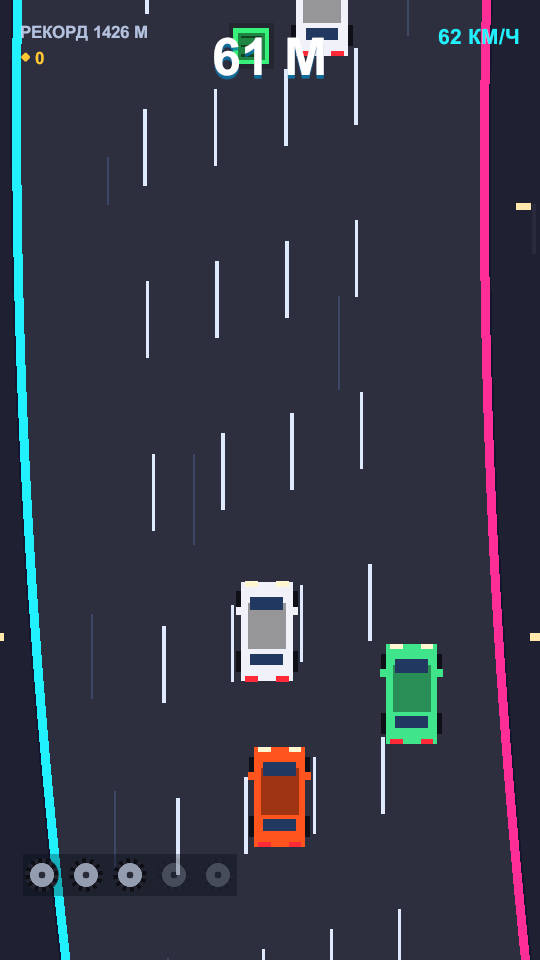
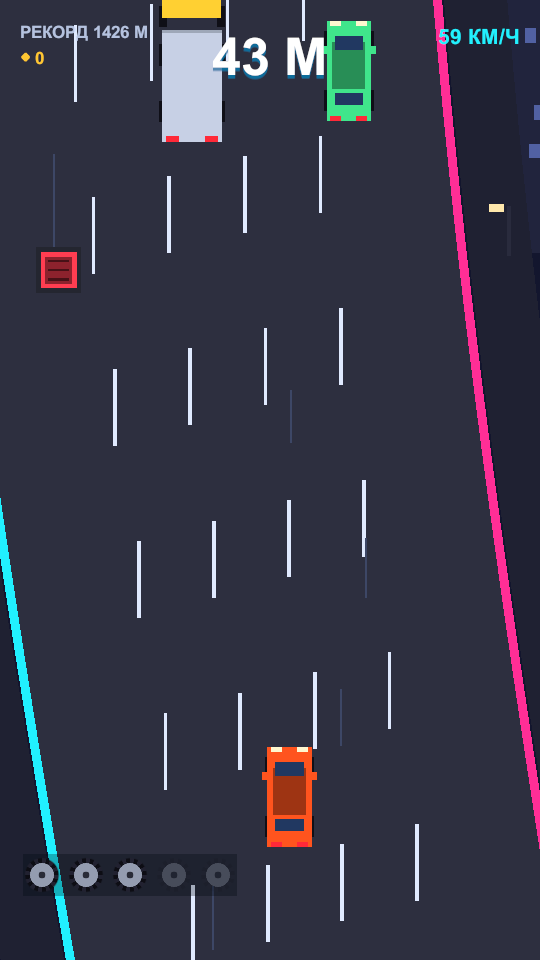
Widen lanes and fix collisions on turns (v0.6.1)
- Lane width 1.55 -> 1.72, road half width 4.40 -> 4.85, so cars have room inside their lane.
- Traffic cars, trucks and barriers are slimmer.
- Collisions now compare positions in lane space (world X minus the road offset at that height) instead of plain world X. On sharp turns the offset shifted neighbouring lanes closer together in world coordinates, which caused hits from cars in the next lane.
- Manholes and coins use the same lane-space check.
- Player hitbox slightly narrower (0.46 x 1.02).
- Lampposts and city buildings moved outward to keep clear of the wider road.
- Version 0.6.1 (code 7); README and screenshots refreshed.

diff --git a/Assets/FiveLineRace/Scripts/G2Visuals.cs b/Assets/FiveLineRace/Scripts/G2Visuals.cs
@@ -34,25 +34,25 @@ namespace FiveLineRace
             {
                 for (int sy = -1; sy <= 1; sy += 2)
                 {
-                    G2Quad.Create(root.transform, "Wheel", sx * 0.58f, sy * 0.66f, 0.2f, 0.46f, G2.Tire, 0.02f);
+                    G2Quad.Create(root.transform, "Wheel", sx * 0.47f, sy * 0.66f, 0.16f, 0.46f, G2.Tire, 0.02f);
                 }
             }
 
             // Корпус и капот.
-            G2Quad.Create(root.transform, "Body", 0f, 0f, 1.14f, 2.2f, body, 0f);
-            G2Quad.Create(root.transform, "Roof", 0f, 0.12f, 0.84f, 1.02f, G2.Darken(body, 0.62f), -0.02f);
-            G2Quad.Create(root.transform, "Windshield", 0f, 0.62f, 0.72f, 0.3f, G2.Glass, -0.03f);
-            G2Quad.Create(root.transform, "RearWindow", 0f, -0.62f, 0.72f, 0.26f, G2.Glass, -0.03f);
+            G2Quad.Create(root.transform, "Body", 0f, 0f, 0.98f, 2.2f, body, 0f);
+            G2Quad.Create(root.transform, "Roof", 0f, 0.12f, 0.72f, 1.02f, G2.Darken(body, 0.62f), -0.02f);
+            G2Quad.Create(root.transform, "Windshield", 0f, 0.62f, 0.62f, 0.3f, G2.Glass, -0.03f);
+            G2Quad.Create(root.transform, "RearWindow", 0f, -0.62f, 0.62f, 0.26f, G2.Glass, -0.03f);
 
             // Зеркала.
-            G2Quad.Create(root.transform, "MirrorL", -0.62f, 0.46f, 0.14f, 0.18f, body, -0.02f);
-            G2Quad.Create(root.transform, "MirrorR", 0.62f, 0.46f, 0.14f, 0.18f, body, -0.02f);
+            G2Quad.Create(root.transform, "MirrorL", -0.54f, 0.46f, 0.12f, 0.18f, body, -0.02f);
+            G2Quad.Create(root.transform, "MirrorR", 0.54f, 0.46f, 0.12f, 0.18f, body, -0.02f);
 
             // Фары и стопы.
-            G2Quad.Create(root.transform, "HeadL", -0.34f, 1.05f, 0.28f, 0.12f, new Color(1f, 0.97f, 0.82f), -0.03f);
-            G2Quad.Create(root.transform, "HeadR", 0.34f, 1.05f, 0.28f, 0.12f, new Color(1f, 0.97f, 0.82f), -0.03f);
-            G2Quad.Create(root.transform, "TailL", -0.34f, -1.05f, 0.28f, 0.12f, G2.Tail, -0.03f);
-            G2Quad.Create(root.transform, "TailR", 0.34f, -1.05f, 0.28f, 0.12f, G2.Tail, -0.03f);
+            G2Quad.Create(root.transform, "HeadL", -0.29f, 1.05f, 0.24f, 0.12f, new Color(1f, 0.97f, 0.82f), -0.03f);
+            G2Quad.Create(root.transform, "HeadR", 0.29f, 1.05f, 0.24f, 0.12f, new Color(1f, 0.97f, 0.82f), -0.03f);
+            G2Quad.Create(root.transform, "TailL", -0.29f, -1.05f, 0.24f, 0.12f, G2.Tail, -0.03f);
+            G2Quad.Create(root.transform, "TailR", 0.29f, -1.05f, 0.24f, 0.12f, G2.Tail, -0.03f);
         }
 
         public static GameObject CreateTruck(Transform parent, Color cabColor)
@@ -63,20 +63,20 @@ namespace FiveLineRace
             // Колёса.
             for (int sx = -1; sx <= 1; sx += 2)
             {
-                G2Quad.Create(root.transform, "Wheel", sx * 0.7f, 0.95f, 0.2f, 0.48f, G2.Tire, 0.02f);
-                G2Quad.Create(root.transform, "Wheel", sx * 0.7f, 0.1f, 0.2f, 0.48f, G2.Tire, 0.02f);
-                G2Quad.Create(root.transform, "Wheel", sx * 0.7f, -1.15f, 0.2f, 0.48f, G2.Tire, 0.02f);
+                G2Quad.Create(root.transform, "Wheel", sx * 0.64f, 0.95f, 0.18f, 0.48f, G2.Tire, 0.02f);
+                G2Quad.Create(root.transform, "Wheel", sx * 0.64f, 0.1f, 0.18f, 0.48f, G2.Tire, 0.02f);
+                G2Quad.Create(root.transform, "Wheel", sx * 0.64f, -1.15f, 0.18f, 0.48f, G2.Tire, 0.02f);
             }
 
             // Кузов-фургон и кабина.
-            G2Quad.Create(root.transform, "Cargo", 0f, -0.6f, 1.48f, 2.45f, G2.Cargo, 0f);
-            G2Quad.Create(root.transform, "CargoLine", 0f, 0.62f, 1.48f, 0.06f, G2.Darken(G2.Cargo, 0.8f), -0.01f);
-            G2Quad.Create(root.transform, "Cab", 0f, 1.5f, 1.42f, 1.15f, cabColor, -0.02f);
-            G2Quad.Create(root.transform, "Windshield", 0f, 1.95f, 1.16f, 0.24f, G2.Glass, -0.03f);
+            G2Quad.Create(root.transform, "Cargo", 0f, -0.6f, 1.34f, 2.45f, G2.Cargo, 0f);
+            G2Quad.Create(root.transform, "CargoLine", 0f, 0.62f, 1.34f, 0.06f, G2.Darken(G2.Cargo, 0.8f), -0.01f);
+            G2Quad.Create(root.transform, "Cab", 0f, 1.5f, 1.3f, 1.15f, cabColor, -0.02f);
+            G2Quad.Create(root.transform, "Windshield", 0f, 1.95f, 1.06f, 0.24f, G2.Glass, -0.03f);
 
             // Стопы.
-            G2Quad.Create(root.transform, "TailL", -0.48f, -1.76f, 0.3f, 0.14f, G2.Tail, -0.03f);
-            G2Quad.Create(root.transform, "TailR", 0.48f, -1.76f, 0.3f, 0.14f, G2.Tail, -0.03f);
+            G2Quad.Create(root.transform, "TailL", -0.43f, -1.76f, 0.28f, 0.14f, G2.Tail, -0.03f);
+            G2Quad.Create(root.transform, "TailR", 0.43f, -1.76f, 0.28f, 0.14f, G2.Tail, -0.03f);
 
             return root;
         }
@@ -86,17 +86,17 @@ namespace FiveLineRace
             var root = new GameObject("BarrierVisual");
             root.transform.SetParent(parent, false);
 
-            G2Quad.Create(root.transform, "Base", 0f, -0.34f, 1.9f, 0.16f, new Color(0.3f, 0.32f, 0.38f), 0.01f);
-            G2Quad.Create(root.transform, "Board", 0f, 0f, 1.78f, 0.54f, new Color(1f, 0.45f, 0.08f), 0f);
+            G2Quad.Create(root.transform, "Base", 0f, -0.32f, 1.6f, 0.14f, new Color(0.3f, 0.32f, 0.38f), 0.01f);
+            G2Quad.Create(root.transform, "Board", 0f, 0f, 1.46f, 0.5f, new Color(1f, 0.45f, 0.08f), 0f);
 
             for (int i = 0; i < 4; i++)
             {
-                G2Quad.Create(root.transform, "Stripe", -0.66f + i * 0.44f, 0f, 0.24f, 0.46f,
+                G2Quad.Create(root.transform, "Stripe", -0.54f + i * 0.36f, 0f, 0.2f, 0.42f,
                     new Color(1f, 0.85f, 0.2f), -0.01f);
             }
 
-            G2Quad.Create(root.transform, "LampL", -0.8f, 0.44f, 0.16f, 0.16f, new Color(1f, 0.7f, 0.15f), -0.01f);
-            G2Quad.Create(root.transform, "LampR", 0.8f, 0.44f, 0.16f, 0.16f, new Color(1f, 0.7f, 0.15f), -0.01f);
+            G2Quad.Create(root.transform, "LampL", -0.66f, 0.38f, 0.14f, 0.14f, new Color(1f, 0.7f, 0.15f), -0.01f);
+            G2Quad.Create(root.transform, "LampR", 0.66f, 0.38f, 0.14f, 0.14f, new Color(1f, 0.7f, 0.15f), -0.01f);
 
             return root;
         }

diff --git a/Assets/FiveLineRace/Scripts/G2Game.cs b/Assets/FiveLineRace/Scripts/G2Game.cs
@@ -379,15 +379,15 @@ namespace FiveLineRace
             {
                 G2Visuals.CreateBarrier(go.transform);
                 mover.relativeSpeed = 1f;
-                mover.halfX = 0.88f;
-                mover.halfY = 0.4f;
+                mover.halfX = 0.74f;
+                mover.halfY = 0.36f;
             }
             else if (roll < 0.4f)
             {
                 Color color = G2.TrafficColors[Random.Range(0, G2.TrafficColors.Length)];
                 G2Visuals.CreateTruck(go.transform, color);
                 mover.relativeSpeed = 0.55f;
-                mover.halfX = 0.74f;
+                mover.halfX = 0.68f;
                 mover.halfY = 1.95f;
             }
             else
@@ -395,7 +395,7 @@ namespace FiveLineRace
                 Color color = G2.TrafficColors[Random.Range(0, G2.TrafficColors.Length)];
                 G2Visuals.CreateTrafficCar(go.transform, color);
                 mover.relativeSpeed = 0.75f;
-                mover.halfX = 0.6f;
+                mover.halfX = 0.5f;
                 mover.halfY = 1.15f;
             }
 
@@ -452,6 +452,11 @@ namespace FiveLineRace
         void CheckHits()
         {
             Vector3 p = car.transform.position;
+            float travelled = Distance;
+
+            // X считаем вдоль дороги: на повороте соседняя полоса смещена по мировой X,
+            // и проверка «в лоб» ловила машины из соседних полос.
+            float carLocalX = p.x - G2Path.OffsetAtY(p.y, travelled);
 
             // Столкновения с трафиком: теряем жизнь, но заезд продолжается.
             for (int i = 0; i < obstacles.Count; i++)
@@ -460,8 +465,10 @@ namespace FiveLineRace
                 if (obstacle == null) continue;
 
                 Vector3 q = obstacle.transform.position;
+                float qLocalX = q.x - G2Path.OffsetAtY(q.y, travelled);
+
                 if (Mathf.Abs(q.y - p.y) < G2.PlayerHalfY + obstacle.halfY &&
-                    Mathf.Abs(q.x - p.x) < G2.PlayerHalfX + obstacle.halfX)
+                    Mathf.Abs(qLocalX - carLocalX) < G2.PlayerHalfX + obstacle.halfX)
                 {
                     HitObstacle(obstacle);
                     break;
@@ -479,7 +486,9 @@ namespace FiveLineRace
                 }
 
                 Vector3 q = manhole.transform.position;
-                if (Mathf.Abs(q.y - p.y) < 1.05f && Mathf.Abs(q.x - p.x) < 0.95f)
+                float qLocalX = q.x - G2Path.OffsetAtY(q.y, travelled);
+
+                if (Mathf.Abs(q.y - p.y) < 1.05f && Mathf.Abs(qLocalX - carLocalX) < 0.95f)
                 {
                     ApplySpeedChange(manhole.faster);
                     Destroy(manhole.gameObject);
@@ -498,7 +507,9 @@ namespace FiveLineRace
                 }
 
                 Vector3 q = coin.transform.position;
-                if (Mathf.Abs(q.y - p.y) < 1.25f && Mathf.Abs(q.x - p.x) < 0.8f)
+                float qLocalX = q.x - G2Path.OffsetAtY(q.y, travelled);
+
+                if (Mathf.Abs(q.y - p.y) < 1.25f && Mathf.Abs(qLocalX - carLocalX) < 0.78f)
                 {
                     Coins++;
                     Destroy(coin);

diff --git a/Assets/FiveLineRace/Scripts/G2World.cs b/Assets/FiveLineRace/Scripts/G2World.cs
@@ -60,7 +60,7 @@ namespace FiveLineRace
                     float y = G2.WrapBottom + i * 5.6f + Random.Range(-1.2f, 1.2f);
                     float w = Random.Range(1.8f, 3.2f);
                     float h = Random.Range(3f, 7.5f);
-                    float cx = side * Random.Range(6.5f, 8.0f);
+                    float cx = side * Random.Range(6.95f, 8.45f);
 
                     var building = G2Quad.Create(root.transform, "Building", cx, y, w, h, G2.Building, 6.6f);
                     moving.Add(building.transform);
@@ -86,7 +86,7 @@ namespace FiveLineRace
                 for (int i = 0; i < 4; i++)
                 {
                     float y = G2.WrapBottom + i * 9.5f + 2f;
-                    float x = side * 5.4f;
+                    float x = side * 5.85f;
 
                     var pole = G2Quad.Create(root.transform, "Pole", x, y, 0.1f, 1.1f,
                         new Color(0.16f, 0.17f, 0.24f), 5.2f);

diff --git a/Assets/FiveLineRace/Scripts/G2Const.cs b/Assets/FiveLineRace/Scripts/G2Const.cs
@@ -10,8 +10,8 @@ namespace FiveLineRace
     {
         // --- Полосы ---
         public const int LaneCount = 5;
-        public const float LaneWidth = 1.55f;
-        public const float RoadHalfWidth = 4.4f;
+        public const float LaneWidth = 1.72f;
+        public const float RoadHalfWidth = 4.85f;
 
         // --- Камера ---
         public const float OrthoSize = 10.6f;
@@ -54,8 +54,8 @@ namespace FiveLineRace
         public const float InvulnerableTime = 1.5f;
 
         // --- Столкновения (полуразмеры коробки игрока) ---
-        public const float PlayerHalfX = 0.52f;
-        public const float PlayerHalfY = 1.05f;
+        public const float PlayerHalfX = 0.46f;
+        public const float PlayerHalfY = 1.02f;
 
         // --- Прокрутка фона ---
         public const float WrapLength = 38f;

diff --git a/README.md b/README.md
@@ -69,14 +69,14 @@ build_android.bat
 Версия хранится в одном месте — `Assets/FiveLineRace/Resources/version.txt`:
 
 ```
-0.6.0
-6
+0.6.1
+7
 ```
 
 - первая строка — имя версии (`versionName`), её меняют вручную;
 - вторая строка — код сборки (`versionCode`), он **увеличивается на 1 при каждой сборке**
   и сразу подставляется в настройки Android;
-- в меню игры снизу показывается текущая версия, например `0.6.0 (6)`.
+- в меню игры снизу показывается текущая версия, например `0.6.1 (7)`.
 
 Благодаря растущему коду новый APK ставится поверх установленного, данные и рекорд
 сохраняются. Важно, чтобы все APK были подписаны одним ключом: сейчас используется
